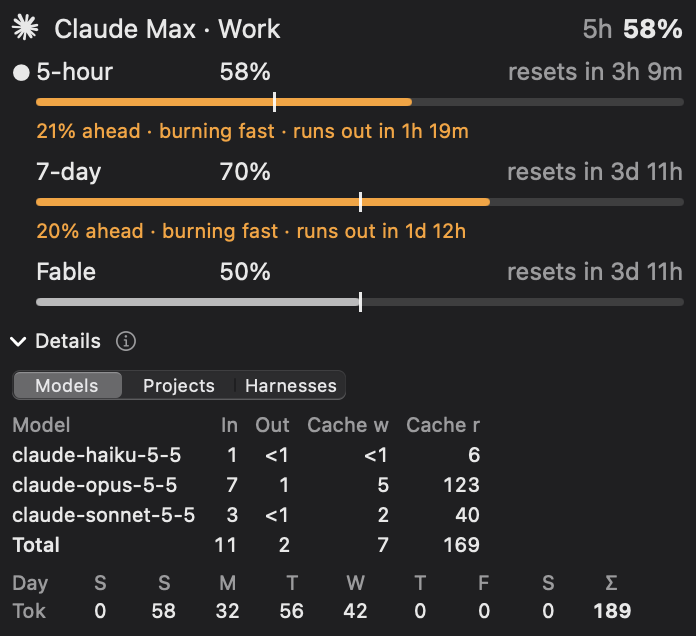
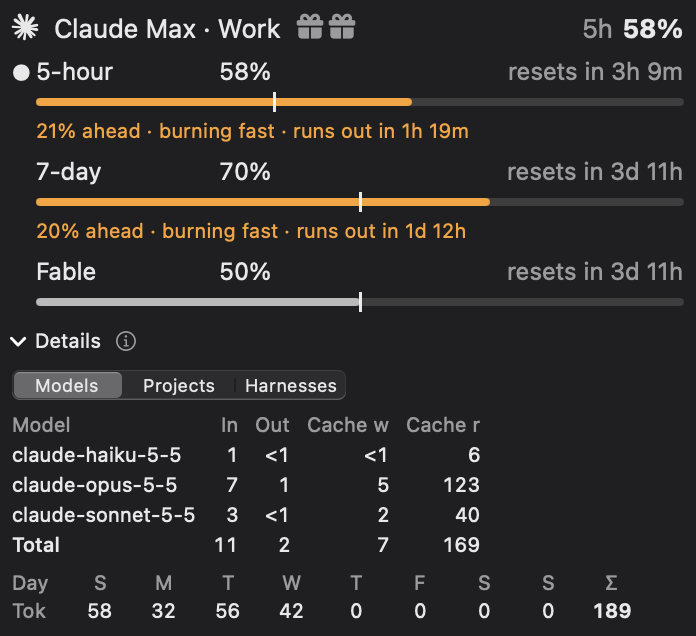
feat: free limit reset glyphs in the shots, privacy copy (#18)
* copy: privacy mirrors free limit resets; card candidate for spec 033

Assisted-By: 🤖 Claude Code

* feat: recapture shots with free limit reset glyphs (spec 033)

Assisted-By: 🤖 Claude Code

diff --git a/docs/card-candidates.md b/docs/card-candidates.md
@@ -19,7 +19,7 @@ The app pull request that ships a card-worthy feature adds its entry here in a s
 ### Free reset tickets
 
 - **Feature**: Free limit resets at a glance
-- **App**: brainstorm 32 (`brainstorm/32-free-reset-tickets.md`), spec pending
+- **App**: brainstorm 32, spec 033 (`specs/033-free-reset-tickets`), branch `033-free-reset-tickets`
 - **Status**: planned
-- **Shot idea**: a Claude section header with gift glyphs next to the account name and a tooltip naming the expiry; the demo scenario gives one account a ticket without expiry and one expiring soon
+- **Shot idea**: a Claude section header with gift glyphs next to the account name and a tooltip naming the expiry; the demo scenario already gives `acc-max` two tickets (one expiring in 2d 4h, one without expiry), so the existing `glance` shot shows the glyphs
 - **Card copy draft**: Claude and Codex sometimes grant free limit resets. AgentTacho shows each one next to the account and reminds you before it expires.
